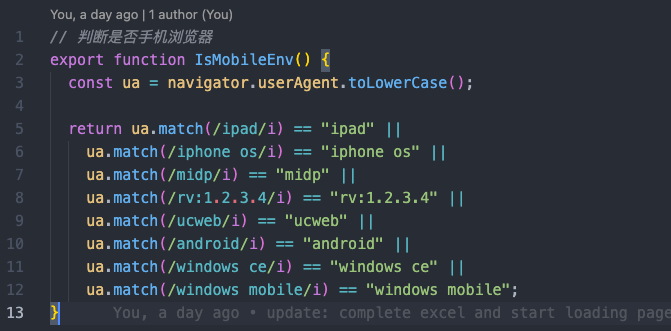
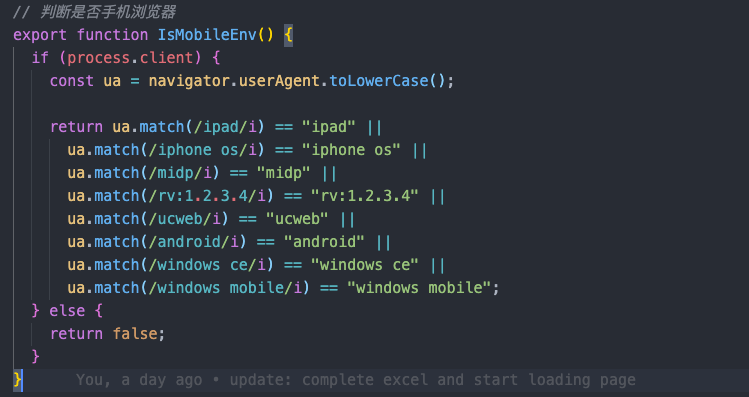
update: window-not-defined and vuepress-loading

diff --git a/my-blog-antdoc/docs/blog/other/aboutblog/vuepress-loading-mask.md b/my-blog-antdoc/docs/blog/other/aboutblog/vuepress-loading-mask.md
@@ -1,7 +1,7 @@
 ---
 title: VuePress添加loading页
 date: 2021/01/16 20:27:00
-tags: ["杂记", "VuePress", "Vue", "Blog"]
+tags: ["杂记", "VuePress", "Vue", "Vuex", "Blog"]
 ---
 
 # VuePress添加loading页
@@ -10,4 +10,192 @@ tags: ["杂记", "VuePress", "Vue", "Blog"]
   <display-bar :displayData="$frontmatter"></display-bar>
 </ClientOnly>
 
+> 由于博客页面在**加载的时候页面会有较长时间的白屏**，感觉<font color="red">有碍观瞻</font>，太丑了，就想着加一个loading页，样式的话就直接拿`antd`的来。
+
+## 一、原理
+
+* 根据VuePress文档[参考资料[1]](#)（即下图）中的全局UI组件相关内容，可以实现一个loading组件，将其注册为`globalUIComponents`，剩下的就是如何控制它的显示与隐藏了。
+
+  ![loading-mask-02](/images/other/aboutblog/loading-mask-02.png)
+
+* 查看`VuePress`的源码可以发现`layouts/Layout.vue`是`VuePress`的根级组件，我们只需要在`Layout.vue`**挂载上去之前显示loading**，**挂载之后隐藏loading就可以了**。
+
+  结合`Vue`的「生命周期钩子」，可以：👇
+
+  * `beforeCreated`：显示。
+  * `mounted`：隐藏。
+
+## 二、注册全局UI组件
+
+### 1.构建组件
+
+::: details 展开查看loading组件代码
+
+```vue
+<template>
+  <div id="loading-mask" v-show="show">
+    <div class="loading-wrapper">
+      <span class="loading-dot loading-dot-spin">
+        <i></i>
+        <i></i>
+        <i></i>
+        <i></i>
+      </span>
+    </div>
+  </div>
+</template>
+
+<script>
+import { mapState } from 'vuex';
+
+export default {
+  name: 'Loading',
+  computed: mapState({
+    show: state => state.show
+  }),
+}
+</script>
+
+<style lang="less">
+  @import "../styles/palette.less";
+
+  #loading-mask {
+    position: fixed;
+    left: 0;
+    top: 0;
+    height: 100%;
+    width: 100%;
+    background: #fff;
+    user-select: none;
+    z-index: 9999;
+    overflow: hidden
+  }
+
+  .loading-wrapper {
+    position: absolute;
+    top: 50%;
+    left: 50%;
+    transform: translate(-50%, -100%)
+  }
+
+  .loading-dot {
+    animation: antRotate 1.2s infinite linear;
+    transform: rotate(45deg);
+    position: relative;
+    display: inline-block;
+    font-size: 64px;
+    width: 37px;
+    height: 37px;
+    box-sizing: border-box
+  }
+
+  .loading-dot i {
+    width: 15px;
+    height: 15px;
+    position: absolute;
+    display: block;
+    background-color: @accentColor;
+    border-radius: 100%;
+    transform: scale(.75);
+    transform-origin: 50% 50%;
+    opacity: .3;
+    animation: antSpinMove 1s infinite linear alternate
+  }
+
+  .loading-dot i:nth-child(1) {
+    top: 0;
+    left: 0
+  }
+
+  .loading-dot i:nth-child(2) {
+    top: 0;
+    right: 0;
+    -webkit-animation-delay: .4s;
+    animation-delay: .4s
+  }
+
+  .loading-dot i:nth-child(3) {
+    right: 0;
+    bottom: 0;
+    -webkit-animation-delay: .8s;
+    animation-delay: .8s
+  }
+
+  .loading-dot i:nth-child(4) {
+    bottom: 0;
+    left: 0;
+    -webkit-animation-delay: 1.2s;
+    animation-delay: 1.2s
+  }
+
+  @keyframes antRotate {
+    to {
+      -webkit-transform: rotate(405deg);
+      transform: rotate(405deg)
+    }
+  }
+
+  @-webkit-keyframes antRotate {
+    to {
+      -webkit-transform: rotate(405deg);
+      transform: rotate(405deg)
+    }
+  }
+
+  @keyframes antSpinMove {
+    to {
+      opacity: 1
+    }
+  }
+
+  @-webkit-keyframes antSpinMove {
+    to {
+      opacity: 1
+    }
+  }
+</style>
+```
+
+:::
+
+### 2.注册全局组件
+
+在`.vuepress/enhanceApp.js`中添加以下代码将loading注册为**全局组件**：
+
+```js {1,9}
+import Loading from './my-pages/Loading';
+
+export default ({
+  Vue,
+  options,
+  router,
+  siteData,
+}) => {
+  Vue.component('Loading', Loading);
+}
+```
+
+### 3.注册为`globalUIComponents`
+
+在`.vuepress/config.js`中添加以下代码将loading注册为**全局UI组件**：
+
+```js
+module.exports = {
+  ...
+  globalUIComponents: ["Loading"],
+  ...
+}
+```
+
+![loading-mask-03](/images/other/aboutblog/loading-mask-03.png)
+
+![loading-mask-01](/images/other/aboutblog/loading-mask-01.png)
+
+## 三、使用`Vuex`控制显示
+
 🚧 施工中...
+
+## 四、参考资料
+
+* 1.[Option API | Plugin - globalUIComponents](https://vuepress.vuejs.org/zh/plugin/option-api.html#globaluicomponents)
+

diff --git a/my-blog-antdoc/docs/blog/other/aboutblog/window-is-not-defined.md b/my-blog-antdoc/docs/blog/other/aboutblog/window-is-not-defined.md
@@ -10,8 +10,99 @@ tags: ["杂记", "VuePress", "VueSSR", "Blog"]
   <display-bar :displayData="$frontmatter"></display-bar>
 </ClientOnly>
 
-## 参考资料
+> 接前文[web表格x-data-spreadsheet实践](/blog/frontend/vue/x-data-spreadsheet-practice.html)，完成**web表格**的开发后，开始打包，但就在打包时出了问题。。。
 
-* 1.[VuePress window document is not defined](https://segmentfault.com/a/1190000022727986)
+## 一、打包出错
 
-🚧 施工中...
+![window-is-not-defined-04](/images/other/aboutblog/window-is-not-defined-04.png)
+
+![window-is-not-defined-02](/images/other/aboutblog/window-is-not-defined-02.png)
+
+由上面两张截图可以找到**打包抛出的错误**：
+
+* 1.`ReferenceError: window is not defined`，
+* 2.`Error: render function or template not defined in component: anonymous`。
+
+第一个错误定位到了一个包，这也没办法确定是谁引用了它，无解，第二个错误也看不出个所以然。。🤣
+
+**算了，来百度吧。**
+
+## 二、百度大法
+
+### 1.岔路
+
+> 由于先搜索的第二个错误，找到了[参考资料[1]](#四、参考资料)，走了一趟岔路。。。
+
+按**原文**的描述，是因为作者使用了一个判断浏览器的方法，方法调用了`navigator`，也就是调用了`window`，然后在打包时出了问题。作者使用的是`Nuxt`，一个`Vue`的`SSR`渲染框架。
+
+**无独有偶**，`VuePress`也是一个`SSR`的框架，**更巧的是**，**我在一天前也给它加了一个方法用于判断当前浏览器环境是移动端还是PC端**。
+
+****
+
+<font color="red">我据此判断错误与原文相同！</font>于是照着修改了一下。
+
+![window-is-not-defined-01](/images/other/aboutblog/window-is-not-defined-01.png)
+
+但是还是报了个错`process is not defined`。。。🤣
+
+### 2.分析
+
+虽然此路不通，但是我了解到了**两个信息**：
+
+::: tip
+
+* 1.错误是出自`SSR`插件。这可以由报错的信息一连串的红色`vue-server-render`报错可以看出。
+
+* 2.错误原因是**浏览器环境和服务器环境不一致**，**服务器环境（即`node`环境）没有`window`等全局变量**，服务端预渲染的话就会产生错误。这点可以在`VuePress`所用的`VueSSR`文档[参考资料[2]](#四、参考资料)或者下图发现。
+
+  ![window-is-not-defined-05](/images/other/aboutblog/window-is-not-defined-05.png)
+
+:::
+
+### 3.明路！
+
+据错误一`window is not defined`找到了[参考资料[3]](#四、参考资料)，才发现解决办法都在**VuePress的文档**（[参考资料[4]](#四、参考资料)）里写着，哈哈哈😂
+
+联想到刚使用了`x-data-spreadsheet`，插件内部可能使用了浏览器环境的某些变量。
+
+## 三、解决办法
+
+```vue
+<template>
+  <div class="tool-page">
+    <component v-if="dynamicComponent" :is="dynamicComponent"></component>
+  </div>
+</template>
+
+<script>
+export default {
+  name: "Tool",
+  data() {
+    return {
+      dynamicComponent: null
+    }
+  },
+  mounted() {
+    const toolType = this.$page.frontmatter.toolType;
+
+    if (toolType === "excel-online") {
+      import("../my-pages/ExcelOnline").then(moudle => {
+        this.dynamicComponent = moudle.default;
+      })
+    }
+  }
+}
+</script>
+```
+
+**最后静态页面渲染成功！**
+
+![window-is-not-defined-03](/images/other/aboutblog/window-is-not-defined-03.png)
+
+## 四、参考资料
+
+* 1.[Nuxt 报错：render function or template not defined in component: anonymous](https://blog.csdn.net/dandelion_drq/article/details/89912968)
+* 2.[编写通用代码 | Vue SSR 指南 - 访问特定平台(Platform-Specific) API](https://ssr.vuejs.org/zh/guide/universal.html#%E8%AE%BF%E9%97%AE%E7%89%B9%E5%AE%9A%E5%B9%B3%E5%8F%B0-platform-specific-api)
+* 3.[VuePress window document is not defined](https://segmentfault.com/a/1190000022727986)
+* 4.[在 Markdown 中 使用 Vue | VuePress -  浏览器的 API 访问限制](https://vuepress.vuejs.org/zh/guide/using-vue.html#%E6%B5%8F%E8%A7%88%E5%99%A8%E7%9A%84-api-%E8%AE%BF%E9%97%AE%E9%99%90%E5%88%B6)
+

diff --git a/my-blog-antdoc/docs/blog/frontend/vue/x-data-spreadsheet-practice.md b/my-blog-antdoc/docs/blog/frontend/vue/x-data-spreadsheet-practice.md
@@ -95,15 +95,15 @@ export default {
 
 :::
 
-简直傻瓜式操作，实例化成功了。
+照着文档来简直傻瓜式操作，实例化成功了。
 
 ## 二、坑
 
-**但是**，来转折了，虽然实例化成功，问题随之而来。。
+来转折了，虽然实例化成功，但是问题随之而来。这告诉我们文档也不一定全对😂
 
-### 1.语言还是英文
+### 1.本地化之后语言还是英文
 
-按文档来:
+我们先按文档来:
 
 ```js
 // 引入中文包
@@ -113,13 +113,15 @@ import zhCN from 'x-data-spreadsheet/dist/locale/zh-cn';
 Spreadsheet.locale("zh-cn", zhCN);
 ```
 
-😮 最后百度大法发现，引这个包成功不了，需要用下面这个路径。。。
+**保存等待热更新完成之后发现还是英文。。**
+
+最后百度大法发现，引这个包成功不了，需要用下面这个路径。。。😮
 
 ```js
 import zhCN from 'x-data-spreadsheet/src/locale/zh-cn'
 ```
 
-### 2.表格默认为全屏
+### 2.表格宽高默认为浏览器窗口的宽高
 
 ![x-data-spreadsheet-01](/images/frontend/vue/x-data-spreadsheet-01.png)
 

diff --git a/my-blog-antdoc/docs/blog/other/devtool/wsl-config.md b/my-blog-antdoc/docs/blog/other/devtool/wsl-config.md
@@ -10,13 +10,13 @@ tags: ["杂记", "WSL", "Linux", "Ubuntu"]
   <display-bar :displayData="$frontmatter"></display-bar>
 </ClientOnly>
 
-本文来折腾一下WSL。
+> 本文来折腾一下WSL。
+>
+> WSL即`Windows Subsystem for Linux`是**Windows10**的一个子系统，可以提供**近乎原生**的GNU/Linux环境。
+>
+> 与Linux相比，Windows对于开发人员来说还是不怎么友好的，仅前端开发环境配置而言，Windows还是稍显繁琐。
 
-WSL即`Windows Subsystem for Linux`是**Windows10**的一个子系统，可以提供**近乎原生**的GNU/Linux环境。
-
-与Linux相比，Windows对于开发人员来说还是不怎么友好的，仅前端开发环境配置而言，Windows还是稍显繁琐。
-
-好的，下面开始配置。
+开始折腾。
 
 ## 一、启用Windows功能
 

diff --git a/my-blog-antdoc/docs/blog/other/README.md b/my-blog-antdoc/docs/blog/other/README.md
@@ -80,7 +80,7 @@ tags: ["杂记", "导航"]
 
 <a href="/blog/other/aboutblog/vuepress-theme-antdocs.html" target="_blank">使用和改造vuepress-theme-antdocs主题</a>
 
-<a href="/blog/other/aboutblog/vuepress-loading-mask.html" target="_blank">VuePress添加loading页</a> 🚧
+<a href="/blog/other/aboutblog/vuepress-loading-mask.html" target="_blank">VuePress添加loading页</a>
 
 <a href="/blog/other/aboutblog/window-is-not-defined.html" target="_blank">ReferenceError: window is not defined</a>
 
